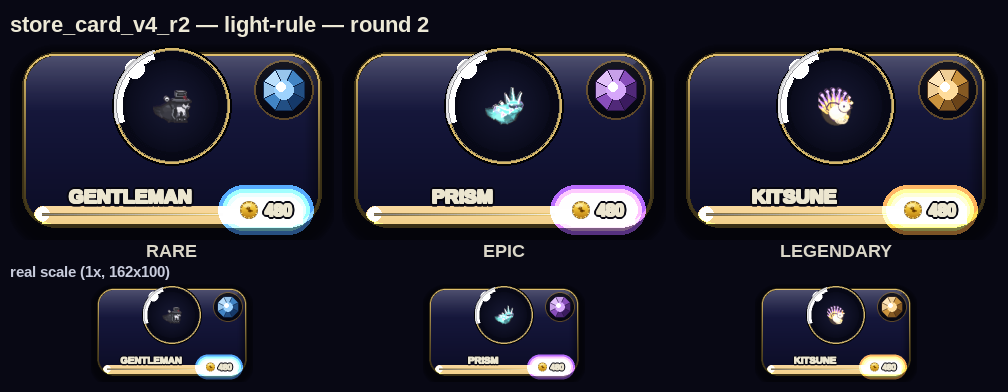
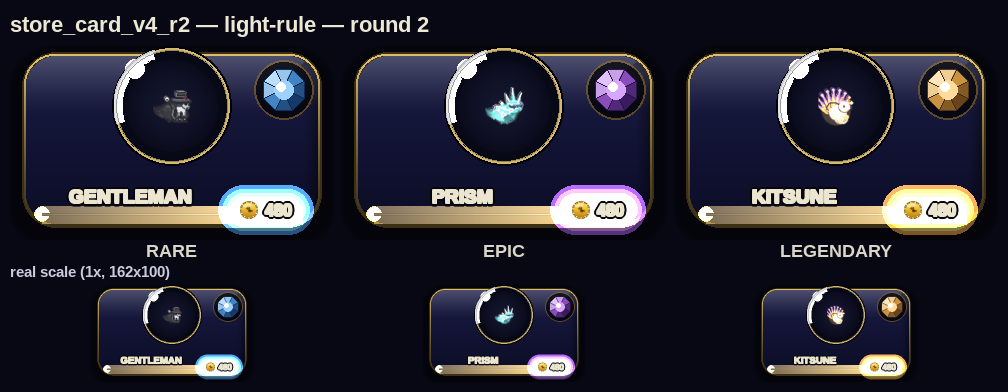
docs: store_card_v4_r2 light-rule round_2
Final pass on the light-rule concept, folding in all AD notes:
- Kill the price strikethrough: the bright core now terminates before the
  price capsule and is drawn under it, so the capsule caps the rule terminus
  instead of being skewered (coin reads warm gold on the rule line, not cream).
- Open real negative space: disc trimmed (R=30) and lifted (cy=m(27)) so its
  top stays tangent to the frame while the bottom lifts, opening an ~11px
  field of open indigo above the floating name.
- No hidden plate: the disc under-glow is eased so the body below stays open
  air (L* ~7), not a softly lit band.
- Price-ward ramp: the rule bloom brightens toward the capped price end and
  fades left, tying the gem + price focal without a border read.

Claude-Session: https://claude.ai/code/session_011726ot8uBSmurQVaEkGY6K

diff --git a/tools/_store_card_v4_r2_light_rule_r2.py b/tools/_store_card_v4_r2_light_rule_r2.py
@@ -123,15 +123,17 @@ def _luminous_rule(surf, x0, x1, y, bright, core_x1=None, ramp=True):
         t = max(0.0, (px - x0) / max(1, core_x1 - x0))
         return floor + (1.0 - floor) * t
 
-    # bloom, ramped by a horizontal alpha gradient so the emission brightens
-    # toward the price without ever hardening into a border.
+    # bloom, ramped by a horizontal gradient so the emission brightens toward the
+    # price without ever hardening into a border. The bloom is blitted ADDITIVELY
+    # (RGB-only), so the ramp scales the bloom's RGB — a per-column MULT mask
+    # whose grey value IS the brightness factor.
     bloom = pygame.Surface(surf.get_size(), pygame.SRCALPHA)
     for w, a in [(m(9), 16), (m(6), 28), (m(3.5), 52), (m(2), 92)]:
         pygame.draw.line(bloom, (*bright, a), (x0, y), (x1, y), max(1, int(w)))
     grad = pygame.Surface(surf.get_size(), pygame.SRCALPHA)
     for px in range(x0, x1 + 1):
-        a = int(255 * _f(px))
-        pygame.draw.line(grad, (255, 255, 255, a), (px, y - m(6)), (px, y + m(6)))
+        v = int(255 * _f(px))
+        pygame.draw.line(grad, (v, v, v, 255), (px, y - m(10)), (px, y + m(10)))
     bloom.blit(grad, (0, 0), special_flags=pygame.BLEND_RGBA_MULT)
     surf.blit(bloom, (0, 0), special_flags=pygame.BLEND_ADD)
     # soft round cap on the LEFT terminus so the emission fades out there; the
